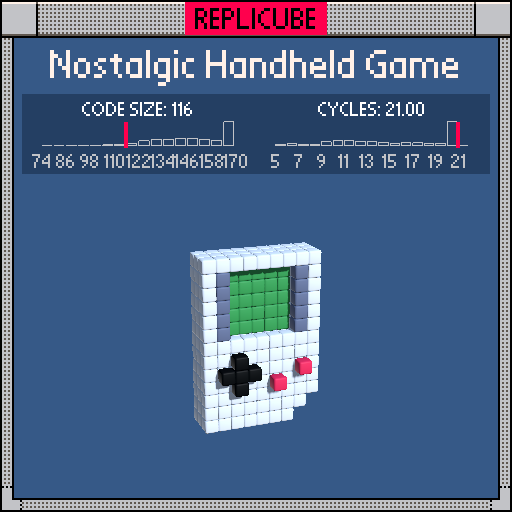
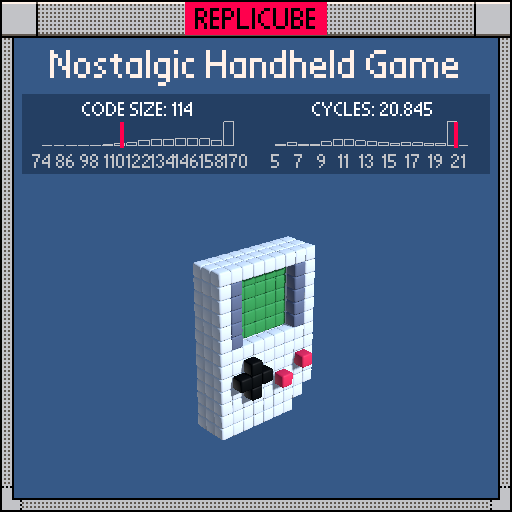
Slight improvement to nostalgic handheld game

diff --git a/038-nostalgic-handheld-game/README.md b/038-nostalgic-handheld-game/README.md
@@ -2,6 +2,6 @@
 
 | Code size | Cycles / voxel |
 | --------- | -------------- |
-| 116       | 21.00          |
+| 114       | 20.845         |
 
 ![](nostalgic-handheld-game-0.png)
